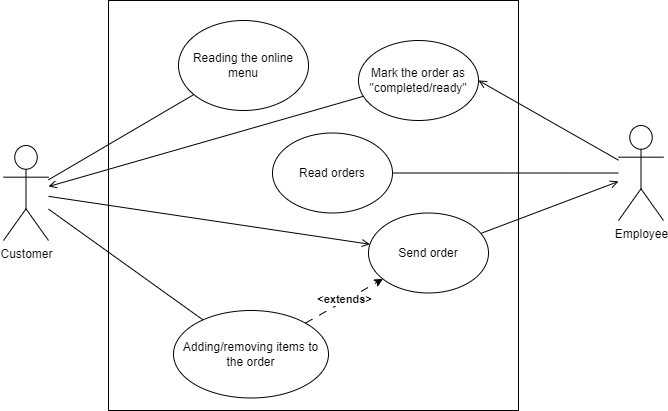
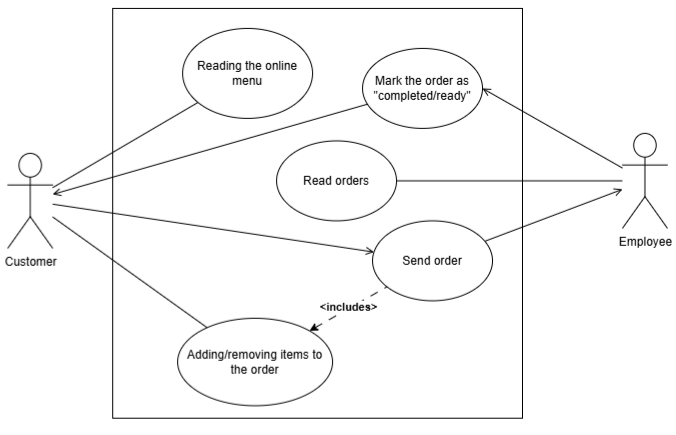
docs: review use cases

diff --git a/docs/use_cases.md b/docs/use_cases.md
@@ -8,7 +8,7 @@ These are the *use cases diagrams* made in order to have an easier way to collec
 
 ## Use case of the orders management
 ![Use case of the orders management](resources/images/use%20case%20customer-employee.png)  
-This use case represents the interaction between the employee actor and the customer actor. The first one can read the menu from the web app, can add items to the cart and can send the order. The order is received by the employee. He can read all the pending orders from the PC software and, when the order is completed or ready, he marks it.
+This use case represents the interaction between the employee actor and the customer actor. The first one can read the menu from the web app, must add items to the cart and can send the order. The order is received by the employee. He can read all the pending orders from the PC software and, when the order is completed or ready, he marks it.
 
 ## Use case of the manager modifying the menu
 ![Use case of the manager modifying the menu](resources/images/use%20case%20manager-menu.png)  
@@ -16,4 +16,5 @@ This use case represents the management of the menu. The actor is the manager. H
 
 ## Use case of the manager interacting with the warehouse
 ![Use case 3](resources/images/use%20case%20manager-warehouse.png)  
-This use case represents the management of the warehouse. The actor is the manager. He is allowed to do different actions: he can add a new ingredient and restock it by updating its quantity.
+This use case represents the management of the warehouse. The actor is the manager. He is allowed to do different actions: he can add a new ingredient and restock it by updating its quantity.  
+In addiction the manager receives a notification if an ingredient runs out after a customer has made a new order.
